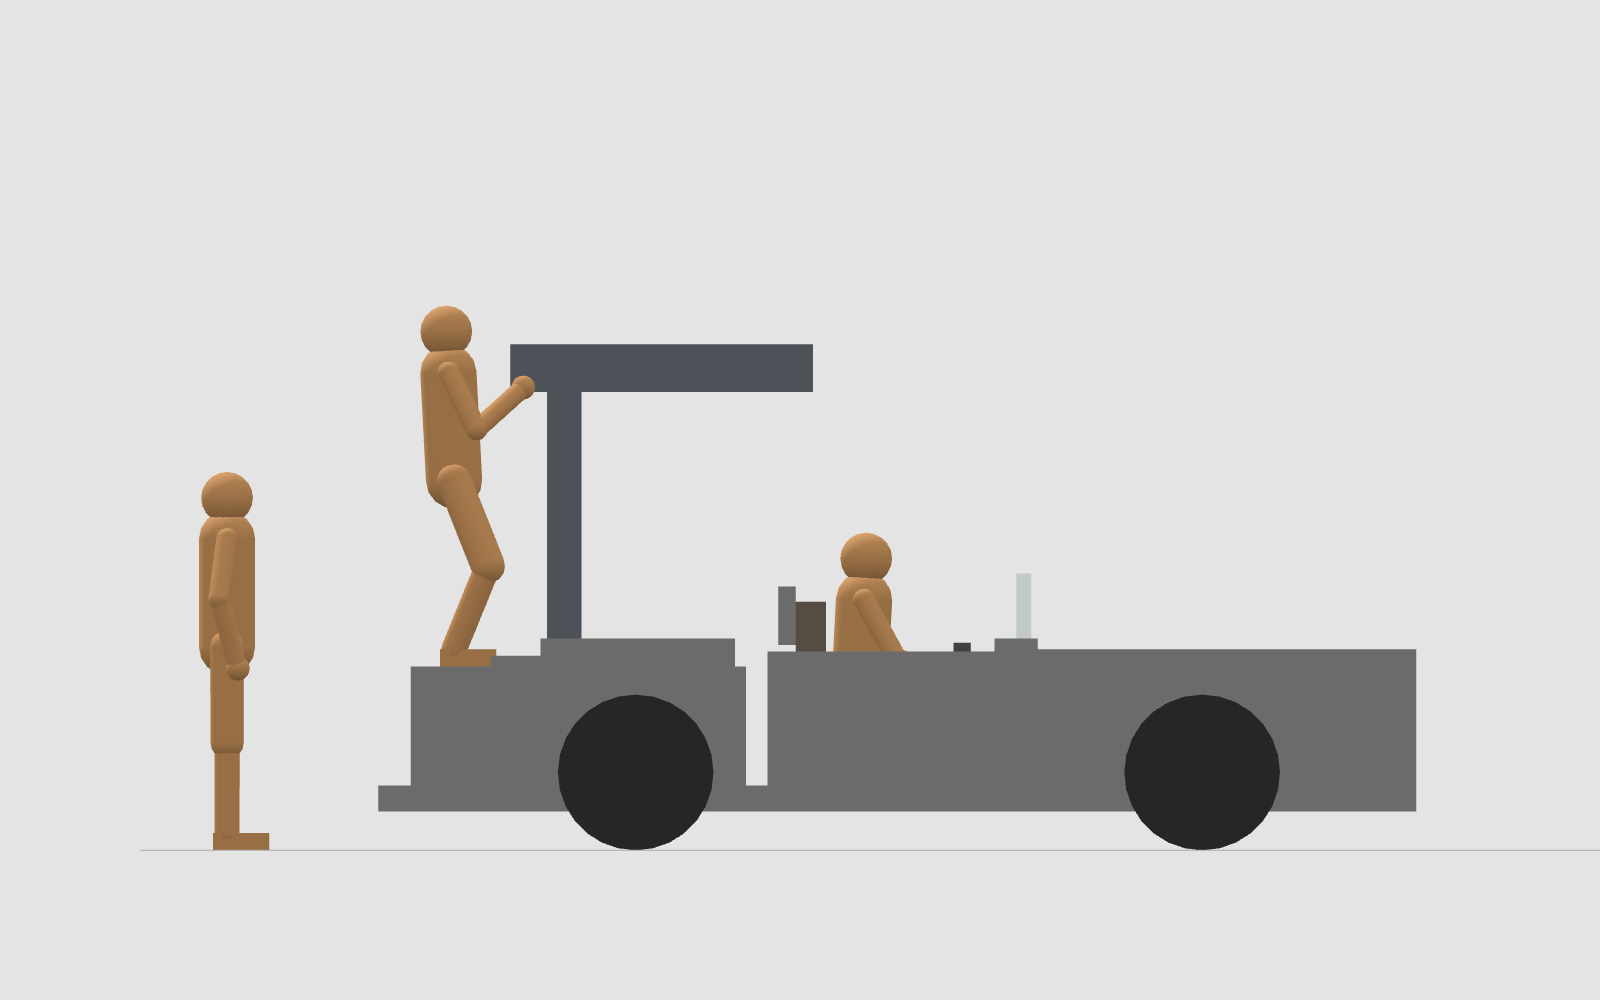
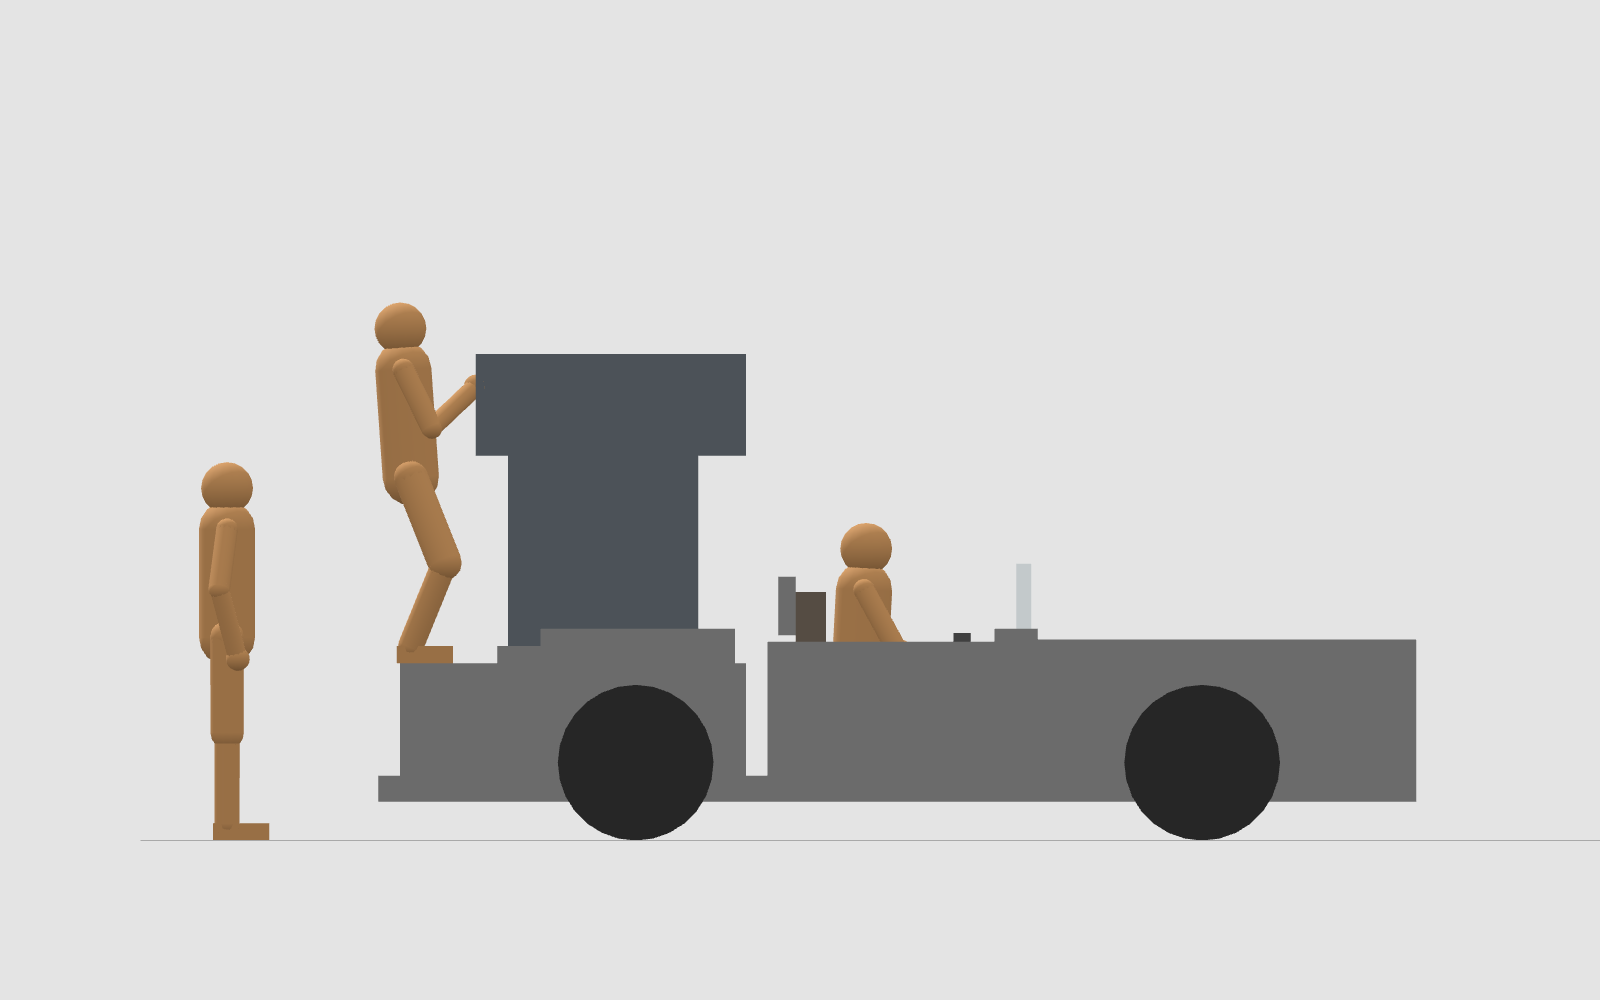
feat: ruota, base e arma dell'Avenger adattate alla carrozzeria e alla dima
Strumento tools/models/adatta_pezzo.py: gira, scala per asse, allunga una fascia, tappa e chiude i pezzi.
Riferimento: design/art/modelli-strutturati.md §18

diff --git a/tools/models/adatta_pezzo.py b/tools/models/adatta_pezzo.py
@@ -1,0 +1,119 @@
+"""
+Fits a generated piece (wheel, gun mount, gun) to its vehicle without reshaping what it shows
+(design/art/modelli-strutturati.md §18, "La dima segue il modello"):
+  - drops the separate pieces lying wholly under the main one (a loose plate under a mount),
+  - caps the open loops (a ring left open behind a rim),
+  - unpinches the edges shared by four faces (two blocks touching along one edge), half a millimetre apart,
+  - stretches one band of heights (a mount's neck) so the piece reaches what stands on it,
+  - turns it nose to +x, takes one of its points as origin and scales it per axis into metres.
+Prints what it did; the result is checked with the inspector (closed / not closed) and the template check.
+
+Usage: python tools/models/adatta_pezzo.py in.glb out.glb --scala SX SY SZ [--origine X Y Z] [--gira]
+       [--allunga Y0 Y1 DY] [--togli-sotto]
+(--origine and --allunga in the model's own units, before turning; --allunga moves what is above Y1 up by DY
+and spreads the stretch over Y0..Y1.)
+Written 2026-11-21 for the Avenger's wheel, gun mount and gun, asked by the user.
+"""
+import argparse, numpy as np, trimesh
+from collections import defaultdict
+from scipy.sparse import coo_matrix
+from scipy.sparse.csgraph import connected_components
+
+ap = argparse.ArgumentParser()
+ap.add_argument('src'); ap.add_argument('out')
+ap.add_argument('--scala', nargs=3, type=float, required=True)
+ap.add_argument('--origine', nargs=3, type=float, default=[0, 0, 0])
+ap.add_argument('--gira', action='store_true')
+ap.add_argument('--allunga', nargs=3, type=float)
+ap.add_argument('--togli-sotto', action='store_true')
+a = ap.parse_args()
+
+m = trimesh.load(a.src, force='mesh', process=False)
+V, Fc, UV = m.vertices.copy(), m.faces.copy(), m.visual.uv.copy()
+tol = m.scale * 1e-6
+
+def weld(V):
+    key = np.round(V / tol).astype(np.int64)
+    _, first, inv = np.unique(key, axis=0, return_index=True, return_inverse=True)
+    return first, inv.ravel()
+
+def pieces(F, n):
+    E = np.vstack([F[:, [0, 1]], F[:, [1, 2]], F[:, [2, 0]]])
+    return connected_components(coo_matrix((np.ones(len(E)), (E[:, 0], E[:, 1])), shape=(n, n)), directed=False)[1]
+
+# 1. loose pieces under the main one
+if a.togli_sotto:
+    first, inv = weld(V); F = inv[Fc]; lab = pieces(F, len(first)); fl = lab[F[:, 0]]
+    main = np.bincount(fl).argmax(); floor = V[Fc[fl == main]].reshape(-1, 3)[:, 1].min()
+    keep = np.ones(len(Fc), bool)
+    for L in np.unique(fl):
+        if L != main and V[Fc[fl == L]].reshape(-1, 3)[:, 1].max() <= floor + tol:
+            keep &= fl != L; print(f'tolto il pezzo staccato sotto il principale ({(fl == L).sum()} triangoli)')
+    Fc = Fc[keep]
+
+# 2. open loops: one fan per cycle of open half-edges, the centre copied per triangle (UV halfway along the edge)
+first, inv = weld(V); F = inv[Fc]
+cnt = defaultdict(int)
+for f in F:
+    for i in range(3): cnt[tuple(sorted((f[i], f[(i + 1) % 3])))] += 1
+half = defaultdict(list)
+for fi, f in enumerate(Fc):
+    for i in range(3):
+        p, q = f[i], f[(i + 1) % 3]
+        if cnt[tuple(sorted((inv[p], inv[q])))] == 1: half[inv[p]].append((inv[q], p, q))
+newV, newUV, newF = [], [], []
+for s in list(half):
+    while half[s]:
+        cyc = []; x = s
+        while half[x]:
+            h = half[x].pop(); cyc.append(h); x = h[0]
+            if x == s: break
+        if len(cyc) < 3: continue
+        c = np.mean([V[p] for _, p, _ in cyc], 0)
+        for _, p, q in cyc:
+            k = len(V) + len(newV); newV.append(c); newUV.append((UV[p] + UV[q]) / 2); newF.append([q, p, k])
+        print(f'tappato un buco di {len(cyc)} spigoli')
+if newV:
+    V = np.vstack([V, newV]); UV = np.vstack([UV, newUV]); Fc = np.vstack([Fc, newF])
+
+# 3. edges with four faces: split the faces into the blocks they close, move one block's copy of the edge away
+first, inv = weld(V); F = inv[Fc]
+ef = defaultdict(list)
+for fi, f in enumerate(F):
+    for i in range(3): ef[tuple(sorted((f[i], f[(i + 1) % 3])))].append(fi)
+bad = {e for e, fs in ef.items() if len(fs) > 2}
+if bad:
+    rows, cols = [], []
+    for e, fs in ef.items():
+        if e in bad or len(fs) != 2: continue
+        rows.append(fs[0]); cols.append(fs[1])
+    blk = connected_components(coo_matrix((np.ones(len(rows)), (rows, cols)), shape=(len(F), len(F))), directed=False)[1]
+    moved = 0; wid = list(inv)
+    for e in bad:
+        groups = sorted({blk[fi] for fi in ef[e]})
+        for g in groups[1:]:
+            fs = np.where(blk == g)[0]; cen = V[Fc[fs]].reshape(-1, 3).mean(0)
+            for fi in fs:
+                for j in range(3):
+                    if wid[Fc[fi, j]] in e:
+                        p = Fc[fi, j]; d = cen - V[p]; d /= np.linalg.norm(d) + 1e-12
+                        V = np.vstack([V, V[p] + d * 5e-4 / max(a.scala)]); UV = np.vstack([UV, UV[p]]); wid.append(-1); Fc[fi, j] = len(V) - 1
+            moved += 1
+    print(f'staccati {len(bad)} spigoli con quattro facce ({moved} blocchi spostati di mezzo millimetro)')
+
+# 4. stretch one band of heights
+if a.allunga:
+    y0, y1, dy = a.allunga; y = V[:, 1]
+    V[:, 1] = y + np.where(y >= y1, dy, np.where(y > y0, dy * (y - y0) / (y1 - y0), 0))
+    print(f'allungata la fascia {y0}..{y1} di {dy} unità')
+
+# 5. origin, turn, scale
+V = V - a.origine
+if a.gira: V[:, [0, 2]] *= -1
+V = V * a.scala
+used = np.unique(Fc); remap = -np.ones(len(V), int); remap[used] = np.arange(len(used))
+out = trimesh.Trimesh(V[used], remap[Fc], process=False,
+                      visual=trimesh.visual.TextureVisuals(uv=UV[used], material=m.visual.material))
+out.export(a.out)
+lo, hi = out.vertices.min(0), out.vertices.max(0)
+print(f'{len(out.faces)} triangoli; da {lo.round(3).tolist()} a {hi.round(3).tolist()} m')

diff --git a/design/art/modelli-strutturati.md b/design/art/modelli-strutturati.md
@@ -968,6 +968,12 @@ lascia dentro i passaruota (molle, bracci: li coprono le ruote, che hanno bisogn
 i buchi piccoli e piatti e toglie le lastre aperte sotto la scocca. Non deforma niente: spostare i vertici
 per allargare un passaruota rovina la carrozzeria (prova del 2026-11-21).
 
+**Gli altri pezzi.** `tools/models/adatta_pezzo.py` porta ruote, basi e armi alla dima: le gira col muso
+verso +x, prende il loro perno come origine e le scala per asse (una ruota si allarga senza ingrandirla),
+toglie i dischi staccati sotto una base, tappa gli anelli aperti e stacca di mezzo millimetro i blocchi che
+si toccano lungo uno spigolo. Può allungare una sola fascia di altezze (il collo di una base) perché l'arma
+arrivi alle mani del mitragliere; il resto del pezzo resta com'è. Il comando usato è nella nota del tentativo.
+
 **Ruote: cosa si controlla davvero.** Il gioco non anima la sospensione e sterza solo le ruote anteriori,
 con un limite per modello. Il punto 5 si fa quindi sulla ruota ferma e a tutto sterzo; la corsa della
 sospensione si controllerà quando il gioco la animerà.
